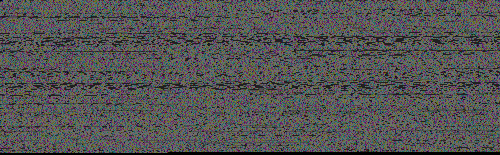
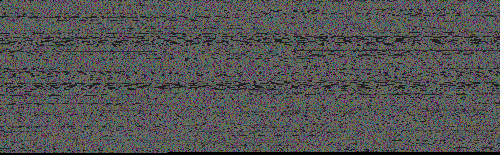
now instead of first 3 pixels (9 bytes) the extra bytes value is the first 8 bytes

diff --git a/src/Converter.cpp b/src/Converter.cpp
@@ -155,7 +155,7 @@ uintmax_t Converter::bytesToInt(unsigned char* byteData) {
 
 	uintmax_t decoded = 0;
 
-	for (int i = 1; i < 9; i++) {
+	for (int i = 0; i < 8; i++) {
 		decoded <<= 8;
 		decoded += byteData[i];
 	}
@@ -166,24 +166,22 @@ uintmax_t Converter::bytesToInt(unsigned char* byteData) {
 
 unsigned char* Converter::readBytes(uintmax_t extraBytes) {
 
-	unsigned char* data = new unsigned char[9 + inputFileSize + extraBytes];
+	unsigned char* data = new unsigned char[8 + inputFileSize + extraBytes];
 
 	// Encoding first three pixels
-
-	data[0] = 0;
 
 	uintmax_t i = 0;
 
 	auto extraValues = intToBytes(extraBytes);
 
-	for (i; i < 9; i++)
-		data[i] = extraValues[i-1];
+	for (i; i < 8; i++)
+		data[i] = extraValues[i];
 
 	delete[] extraValues;
 	
 	// Converting the initial data into byte data
 	
-	for (i; i < (9 + inputFileSize); i++)
+	for (i; i < (8 + inputFileSize); i++)
 		data[i] = fgetc(inputFile); 
 
 	// Adding extra bytes if there are any
@@ -197,20 +195,16 @@ unsigned char* Converter::readBytes(uintmax_t extraBytes) {
 bool Converter::findBestResolution() {
 
 /* The idea is to store image using as less pixels as possible, while also making it resemble a square as much as possible.
- * To do that first we need to know how many pixels the original file takes, which we can calculate by dividing the original
- * byte size by 3 (every pixel is 3 bytes), rounding it up and adding the reserved first three pixels.
- * Next, we calculate the square root of the result, round it down and use the number as the current resolution.
- * Then we find the amount of leftover pixels if we were to use this resolution.
- * If there are none, then we keep it
- * If there is some, then we increase the width by 1 and substract this value from the leftover pixels
- * If the resulting number is positive, it means there are still some leftover pixels left, which we can include by
- * increasing the height as well
+ * We need to know how many pixels the original file size plus reserved 8 bytes take, 1 pixel = 3 bytes
+ * Instead of relying on std::floor I made it so the program adds the extra 1-2 bytes in case the resulting file size is not divisible by 3 
+ * Next, we calculate the square root of the result, round it down to an integer and multiply it by itself
+ * If the result is equal or greater than the total pixel count, we use it
+ * If it's less we first increment width by 1 and if it's still not enough, then also height by 1
  */
-	// In case the initial file size is not divisible by 3, add this amount of extra bytes, so it can be converted to pixels
 
-	int toBeDivisibleBy3 = (3 - inputFileSize % 3) % 3;
+	int toBeDivisibleBy3 = (3 - (inputFileSize + 8) % 3) % 3;
 
-	uintmax_t totalPixels = 3 + (inputFileSize + toBeDivisibleBy3) / 3;
+	uintmax_t totalPixels = (8 + inputFileSize + toBeDivisibleBy3) / 3;
 	
 	outputImageHeight = sqrt(totalPixels);
 
@@ -232,20 +226,10 @@ bool Converter::findBestResolution() {
 }
 
 /* So the way I plan to convert the file to PNG is this:
- * 1. Calculate resolution
- * 2. The first three pixels (72 bits of data) are reserved and store information about the excess bytes, which is calculated
- * by substracting original file size from X
- * 3. Each byte from the original file is converted into a RGB value (from 0 to 255) and stored to an array.
- * 4. Then extra bytes are appended to the array as random integers from 0 to 255.
- * 5. Every three bytes from the array are read and converted into an RGB value (the amount of bytes will always be divisible by 3) for a single pixel
- * 6. This pixel is added to the PNG and the process continues row by row until the PNG is fully encoded.
- *
- * Since uintmax_t size is 64 bits (8 bytes) for most platforms and a pixel is encoded with 24 bits (3 bytes) of data, I had to reserved
- * the first 3 pixels (72 bits = 9 bytes) to store that info, which means that the first byte of the first reserved pixel will always be 0 (it will never have red).
- * As I don't know how to encode transparency with this library (and TBH I don't really want to know) and using alpha-channels would double
- * the PNG size, I think this solution is okay.
- * It would only fail in case the amount of excess data is 2^64 bytes, which would require the initial file size prior to encoding to be
- * at least 2^128 - 2^64 bytes, roughly 2^68 EiB of data, waaaayyy more than any file system can store 
+ * 1. Add 8 bytes to the beginning which is an 64-bit unsigned integer
+ * 2. Either use user defined resolution or if it's to small, calculate a better one
+ * 3. The 64 bit integer stores the amount of extra bytes that were added at the end to make file fit the resolution
+ * 4. The byte data is then converted into pixel data and added to png
  */
 
 void Converter::encode() {
@@ -255,11 +239,11 @@ void Converter::encode() {
 		return;
 	}
 	
-	if ( (outputImageHeight * outputImageWidth * 3 < (9 + inputFileSize)) || (outputImageHeight > 1000000) || (outputImageWidth > 1000000) )
+	if ( (outputImageHeight * outputImageWidth * 3 < (8 + inputFileSize)) || (outputImageHeight > 1000000) || (outputImageWidth > 1000000) )
 		if (!findBestResolution())
 			return;
 	
-	uintmax_t extraBytes = outputImageHeight * outputImageWidth * 3 - 9 - inputFileSize;
+	uintmax_t extraBytes = outputImageHeight * outputImageWidth * 3 - 8 - inputFileSize;
 
 	auto byteData = readBytes(extraBytes);
 
@@ -271,7 +255,7 @@ void Converter::encode() {
 }
 
 /* The decoding is the same, but in reverse:
- * 1. Read the first three pixels to get the value of excessive bytes, say X
+ * 1. Read the first 8 bytes to get the value of excessive bytes at the end, say X
  * 1. Continue reading the PNG pixel by pixel, row by row
  * 2. Every pixel color value is split into three bytes corresponding to the color
  * 3. Each byte is appended to output file
@@ -294,7 +278,7 @@ void Converter::decode() {
 
 	uintmax_t extraBytes = bytesToInt(byteData), byteDataSize = inputPNG.getImageSize();
 	
-	for (uintmax_t i = 9; i < (byteDataSize - extraBytes); i++)
+	for (uintmax_t i = 8; i < (byteDataSize - extraBytes); i++)
 		fputc(byteData[i], outputFile);
 
 	delete[] byteData;
